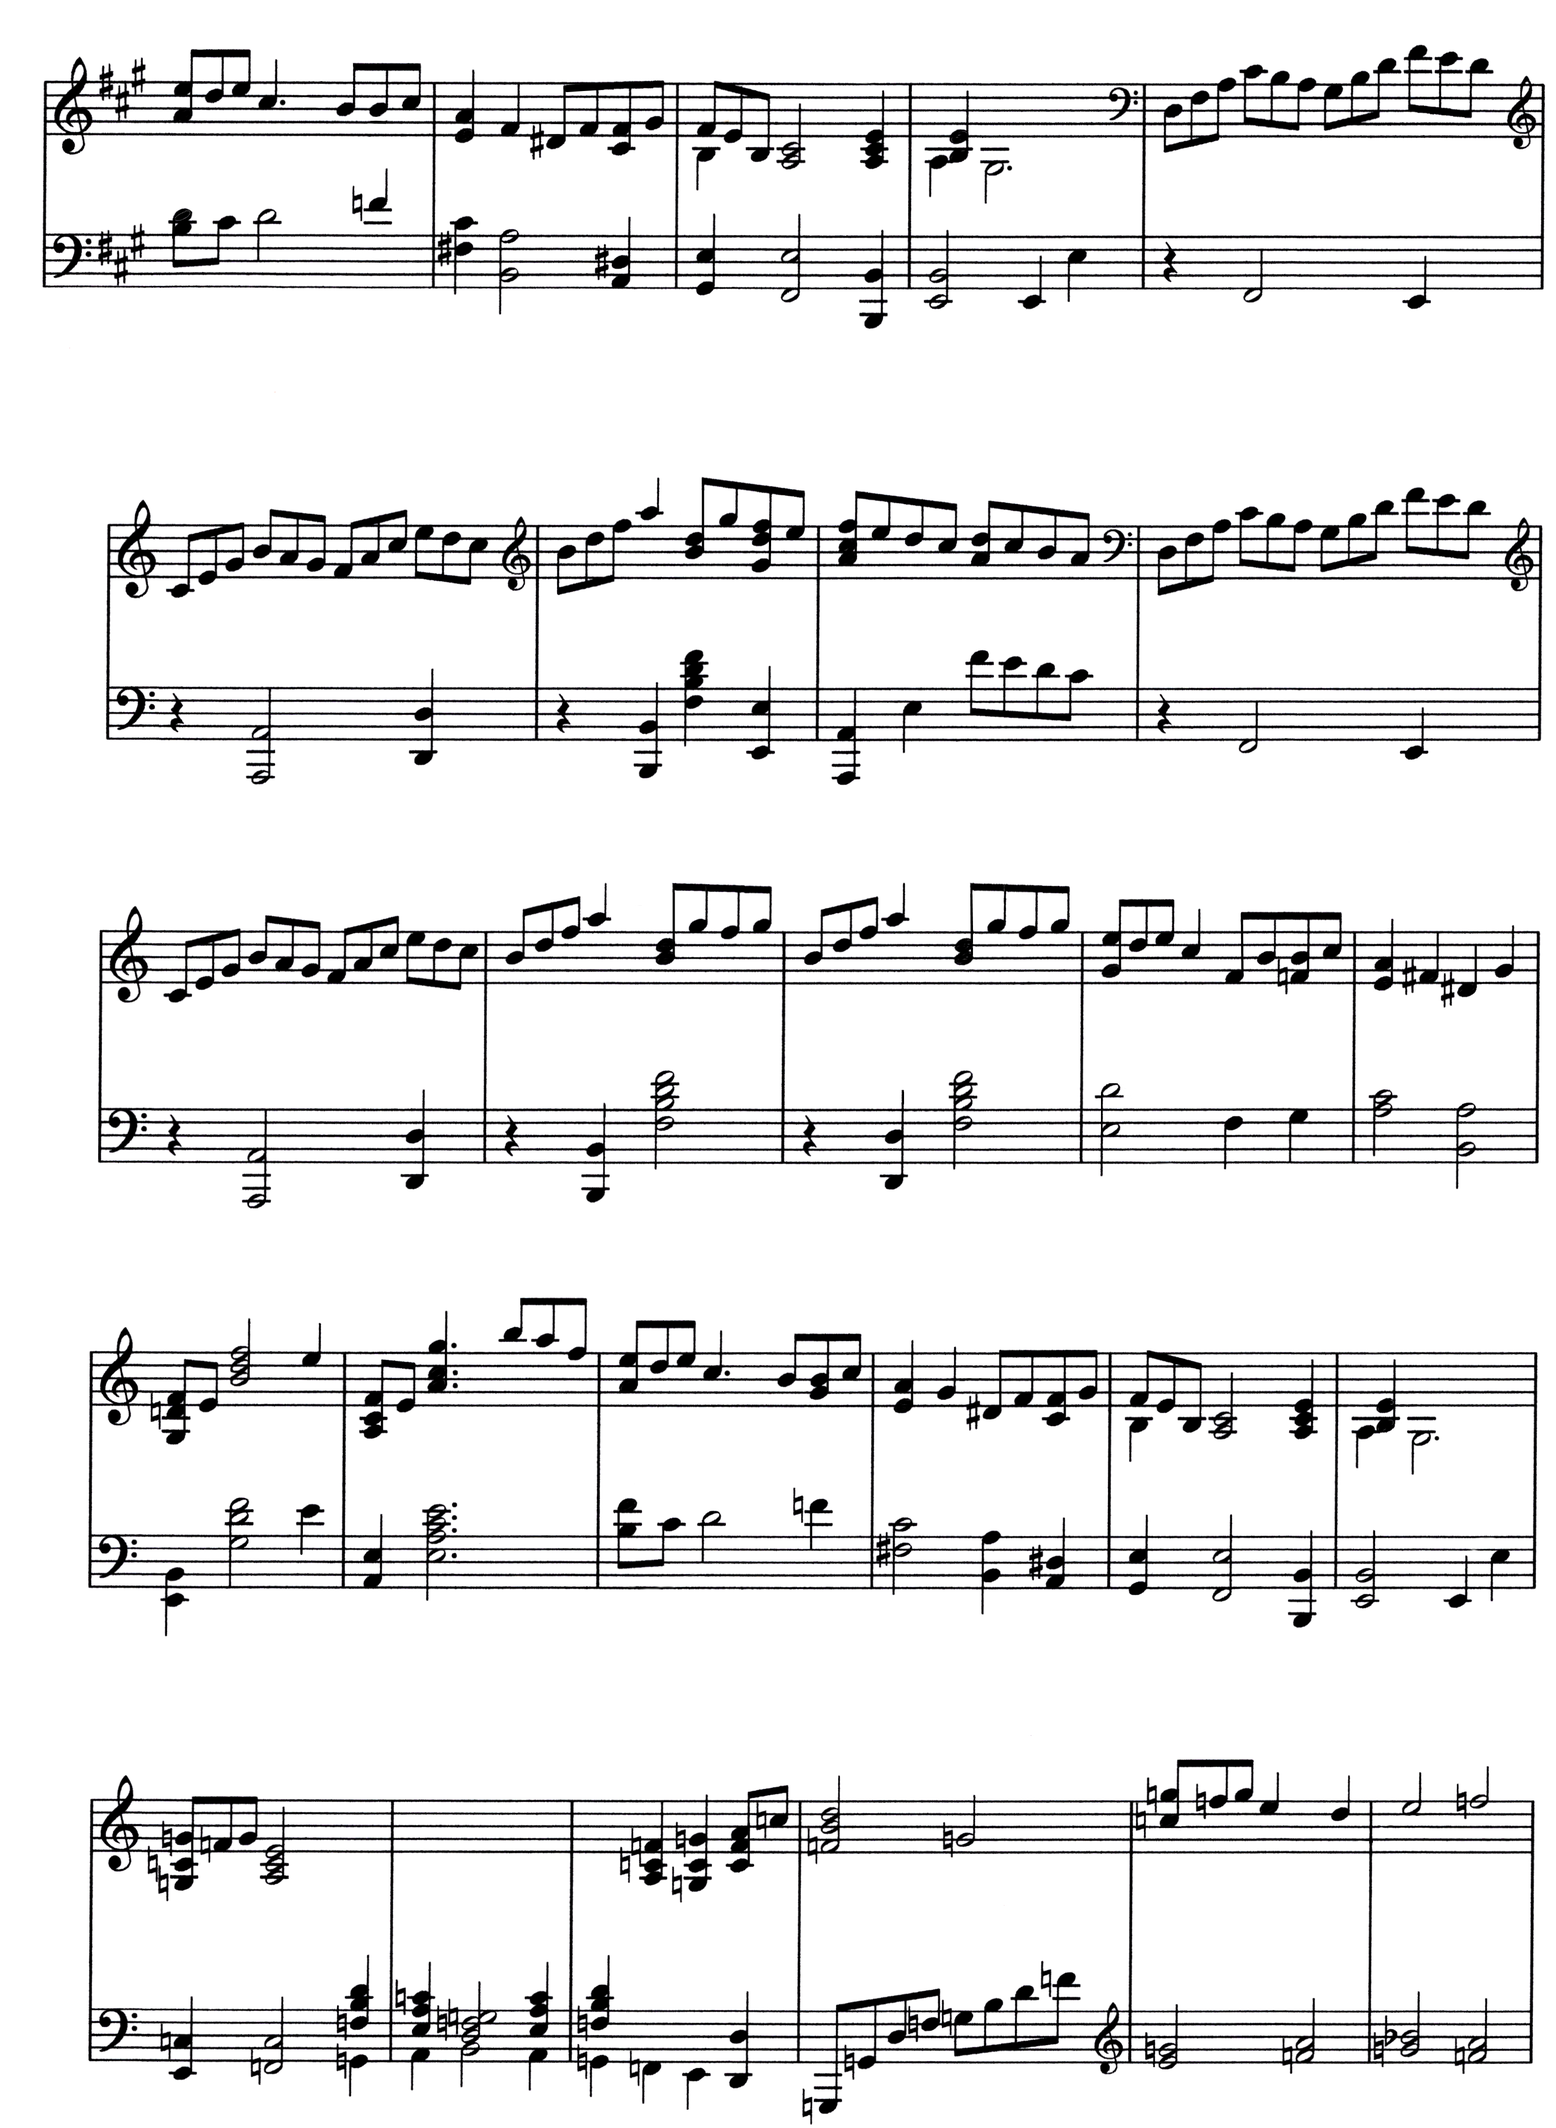
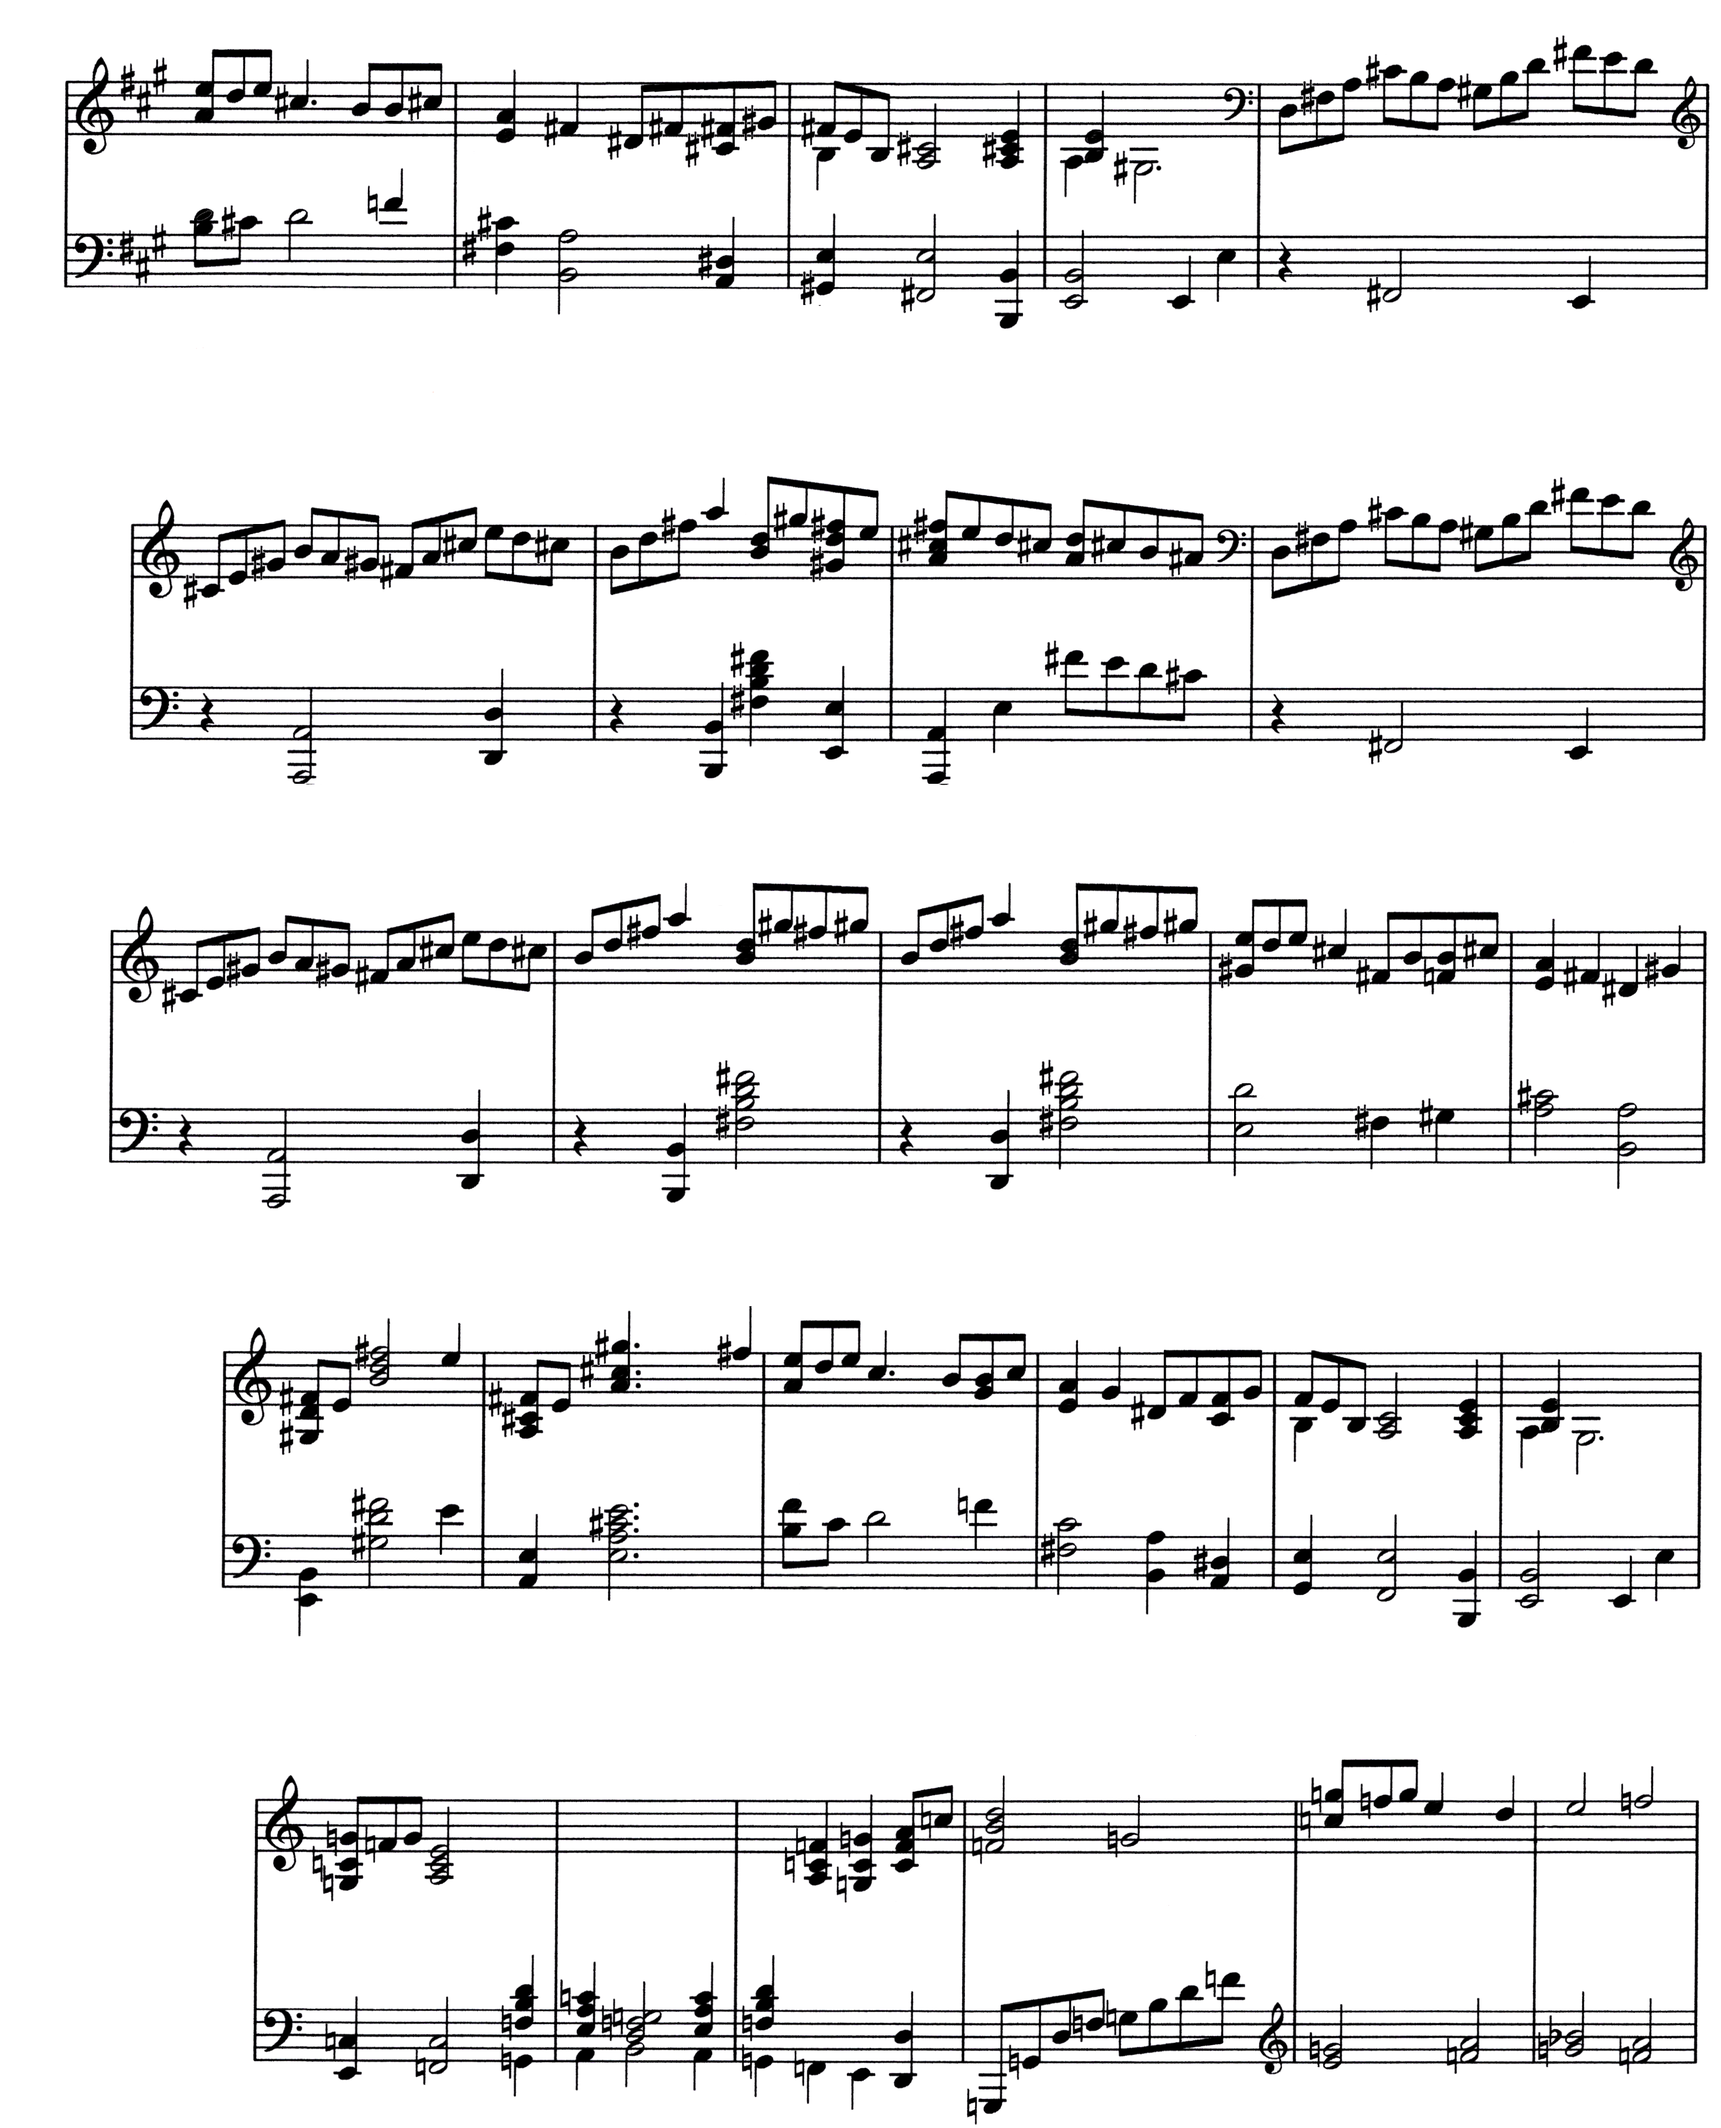
🎼 debussy-arabesque-1\sheet-music-simplified: Adding accidentals (even when part of key) for part of page 2 and 3.

diff --git a/debussy-arabesque-1/debussy-arabesque-1-todo.md b/debussy-arabesque-1/debussy-arabesque-1-todo.md
@@ -44,7 +44,7 @@ TODO
 - [x] ~~Removing repeated clefts.~~ > Changes too often.
 - [x] Simplifying note durations / voicing notation.
 - [ ] __Adding accidentals__ (even when part of key) (might take a few hours more).
-    - [ ] WAS AT: Page 2, line 3, bar 4
+    - [ ] WAS AT: Page 3, line 4, bar 3
 - [ ] Change B# => C | Cb => B | E# => F | Fb => E
 - [ ] Adding title (adding the word 'simplified')
 - [ ] Adding page numbers (font not too small)
